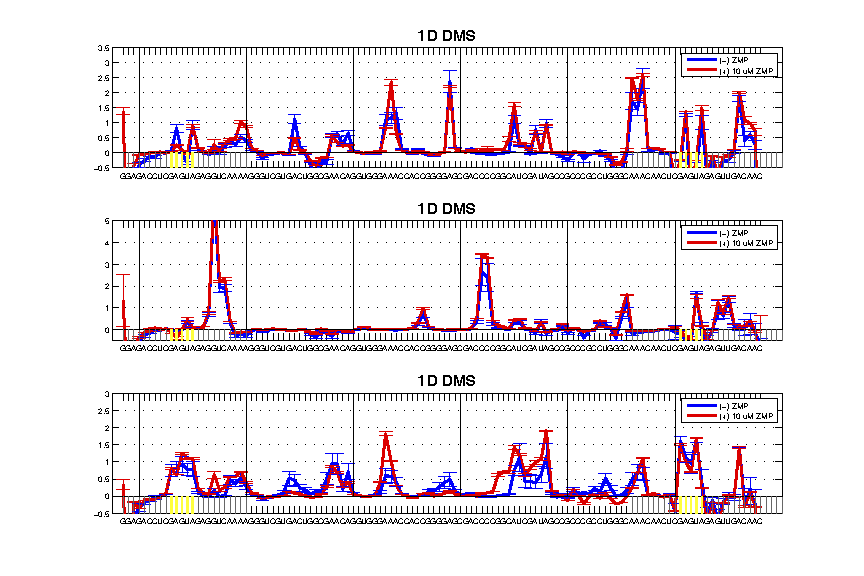
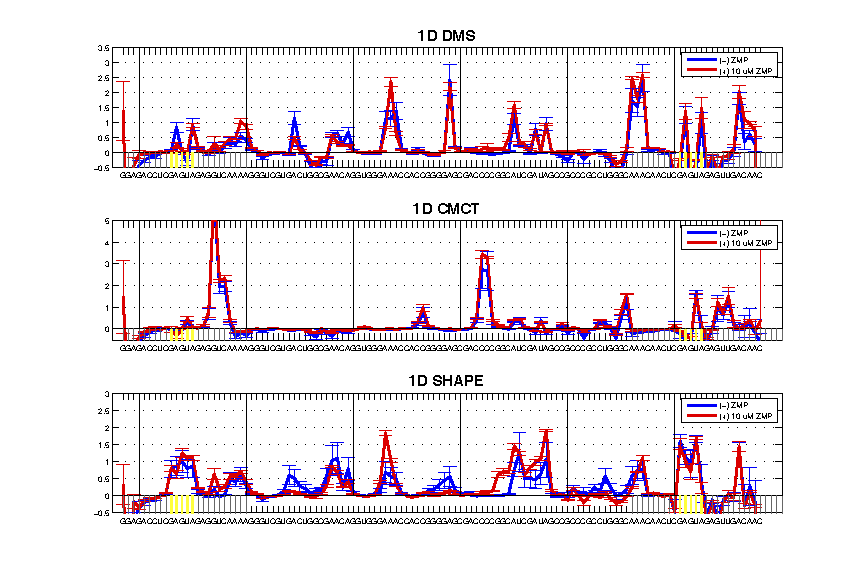
fix save 1d plot title typo

Changed region(s): [[0.1205, 0.3438, 0.9038, 0.9062], [0.1205, 0.0312, 0.9038, 0.3125], [0.3917, 0.1562, 0.4218, 0.1875]]

diff --git a/hitrace/step_8.md b/hitrace/step_8.md
@@ -149,7 +149,7 @@ make_lines([min(seqpos_out):0, 72:(max(seqpos_out) + 20)] - 0.5, [0.4 0.4 0.4], 
 make_lines(ref_peak - 0.5, 'y', 1.5, 1, 0);
 axis([-25 100 -0.5 5]);
 legend('(-) ZMP', '(+) 10 uM ZMP');
-title('1D DMS', 'fontweight', 'bold', 'fontsize', 15);
+title('1D CMCT', 'fontweight', 'bold', 'fontsize', 15);
 set(gca, 'xgrid', 'off', 'ygrid', 'on');
 set(gca, 'xtick', [seqpos_out, first_RT_nucleotide + 1:20], 'xticklabel', sequence', 'fontsize', 8);
 make_lines([-20:20:100] - 0.5, 'k', 0.5, 0, 1);
@@ -164,7 +164,7 @@ make_lines([min(seqpos_out):0, 72:(max(seqpos_out) + 20)] - 0.5, [0.4 0.4 0.4], 
 make_lines(ref_peak - 0.5, 'y', 1.5, 1, 0);
 axis([-25 100 -0.5 3]);
 legend('(-) ZMP', '(+) 10 uM ZMP');
-title('1D DMS', 'fontweight', 'bold', 'fontsize', 15);
+title('1D SHAPE', 'fontweight', 'bold', 'fontsize', 15);
 set(gca, 'xgrid', 'off', 'ygrid', 'on');
 set(gca, 'xtick', [seqpos_out, first_RT_nucleotide + 1:20], 'xticklabel', sequence', 'fontsize', 8);
 make_lines([-20:20:100] - 0.5, 'k', 0.5, 0, 1);
